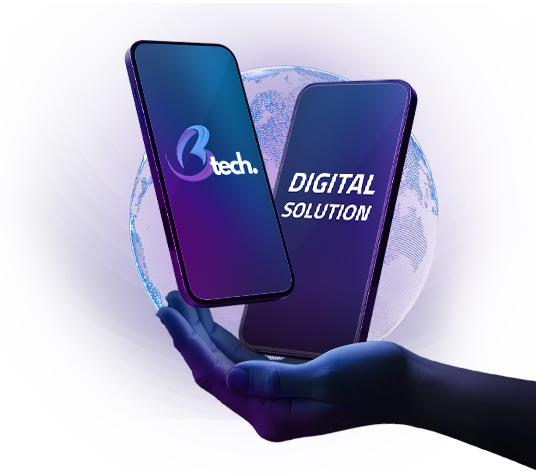
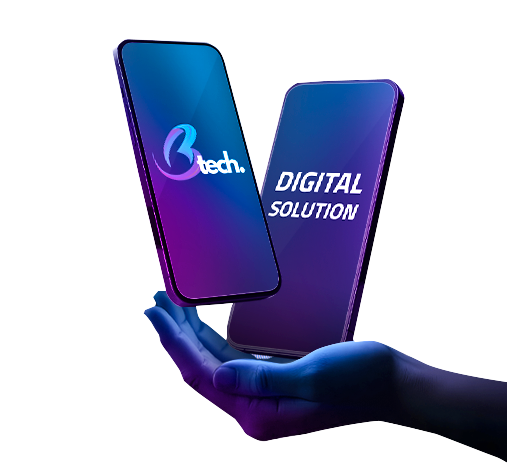
connect with company gmail

diff --git a/client/src/components/HeroSection.jsx b/client/src/components/HeroSection.jsx
@@ -1,6 +1,6 @@
 import React from 'react';
 import BackgroundImg from "../assets/images/backgroundImgInHeroSection.png";
-import HeroImageDark from "../assets/images/HeroImage Dark Mode1.png";
+import HeroImageDark from "../assets/images/HeroImage Dark Mode2.png";
 import HeroImageLight from "../assets/images/HeroImage Light Mode.png";
 import { useTranslation } from 'react-i18next';
 import { useTheme } from "../context/ThemeContext";

diff --git a/server/ContactForm/controllers/Contact.controller.js b/server/ContactForm/controllers/Contact.controller.js
@@ -22,7 +22,7 @@ exports.createContact = async (req, res) => {
 
         const transporter = nodemailer.createTransport({
             host: process.env.SMTP_HOST,
-            port: Number(process.env.SMTP_PORT),
+            port: 465,
             secure: true, // SSL ke liye true rakhein (port 465 ke liye)
             auth: {
                 user: process.env.EMAIL_USER,
